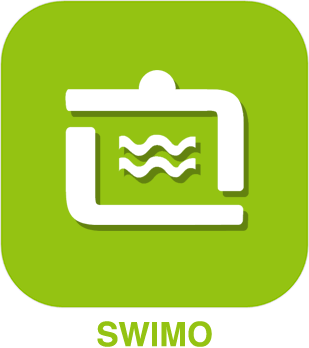
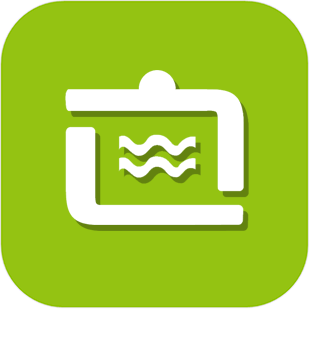
update V4

Changed region(s): [[0.3204, 0.9195, 0.699, 1.0]]

diff --git a/desktop/js/swimo.js b/desktop/js/swimo.js
@@ -57,10 +57,10 @@ function addCmdToTable(_cmd) {
   tr += '</td>';
   tr += '<td>';
   if (is_numeric(_cmd.id)) {
-    tr += '<a class="btn btn-default btn-xs cmdAction" data-action="configure"><i class="fa fa-cogs"></i></a> ';
-    tr += '<a class="btn btn-default btn-xs cmdAction" data-action="test"><i class="fa fa-rss"></i> {{Tester}}</a>';
+    tr += '<a class="btn btn-default btn-xs cmdAction" data-action="configure"><i class="fas fa-cogs"></i></a> ';
+    tr += '<a class="btn btn-default btn-xs cmdAction" data-action="test"><i class="fas fa-rss"></i> {{Tester}}</a>';
   }
-  tr += '<i class="fa fa-minus-circle pull-right cmdAction cursor" data-action="remove"></i>';
+  tr += '<i class="fas fa-minus-circle pull-right cmdAction cursor" data-action="remove"></i>';
   tr += '</td>';
   tr += '</tr>';
   $('#table_cmd tbody').append(tr);

diff --git a/desktop/php/swimo.php b/desktop/php/swimo.php
@@ -1,6 +1,6 @@
 <?php
 if (!isConnect('admin')) {
-throw new Exception('{{401 - Accès non autorisé}}');
+  throw new Exception('{{401 - Accès non autorisé}}');
 }
 $plugin = plugin::byId('swimo');
 sendVarToJS('eqType', $plugin->getId());
@@ -8,112 +8,146 @@ $eqLogics = eqLogic::byType($plugin->getId());
 ?>
 
 <div class="row row-overflow">
- <div class="col-xs-12 eqLogicThumbnailDisplay">
-<legend><i class="fas fa-cog"></i>  {{Gestion}}</legend>
-<div class="eqLogicThumbnailContainer">
-    <div class="cursor eqLogicAction logoPrimary" data-action="add">
-      <i class="fas fa-plus-circle"></i>
-      <br>
-      <span>{{Ajouter}}</span>
+  <div class="col-xs-12 eqLogicThumbnailDisplay">
+    <legend><i class="fas fa-cog"></i>  {{Gestion}}</legend>
+    <div class="eqLogicThumbnailContainer">
+      <div class="cursor eqLogicAction logoPrimary" data-action="add">
+        <i class="fas fa-plus-circle"></i>
+        <br>
+        <span>{{Ajouter}}</span>
+      </div>
+      <div class="cursor eqLogicAction logoSecondary" data-action="sync">
+        <i class="fas fa-sync"></i>
+        <br>
+        <span>{{Synchronisation}}</span>
+      </div>
+      <div class="cursor eqLogicAction logoSecondary" data-action="gotoPluginConf">
+        <i class="fas fa-wrench"></i>
+        <br>
+        <span>{{Configuration}}</span>
+      </div>
+    </div>
+    <legend><i class="fas fa-swimming-pool"></i> {{Mes swimos}}</legend>
+    <div class="input-group" style="margin:5px;">
+      <input class="form-control roundedLeft" placeholder="{{Rechercher}}" id="in_searchEqlogic"/>
+      <div class="input-group-btn">
+        <a id="bt_resetSearch" class="btn roundedRight" style="width:30px"><i class="fas fa-times"></i></a>
+      </div>
+    </div><div class="eqLogicThumbnailContainer">
+      <?php
+      foreach ($eqLogics as $eqLogic) {
+        $opacity = ($eqLogic->getIsEnable()) ? '' : 'disableCard';
+        echo '<div class="eqLogicDisplayCard cursor '.$opacity.'" data-eqLogic_id="' . $eqLogic->getId() . '">';
+        echo '<img src="' . $plugin->getPathImgIcon() . '"/>';
+        echo '<br>';
+        echo '<span class="name">' . $eqLogic->getHumanName(true, true) . '</span>';
+        echo '</div>';
+      }
+      ?>
+    </div>
   </div>
-	<div class="cursor eqLogicAction logoSecondary" data-action="sync">
-        <i class="fa fa-sync"></i>
-       <br>
-       <span>{{Synchronisation}}</span>
-   </div>
-    <div class="cursor eqLogicAction logoSecondary" data-action="gotoPluginConf">
-	      <i class="fas fa-wrench"></i>
-	    <br>
-	    <span>{{Configuration}}</span>
-	  </div>
-</div>
-<legend><i class="fas fa-table"></i> {{Mes swimos}}</legend>
-   <input class="form-control" placeholder="{{Rechercher}}" id="in_searchEqlogic" />
-<div class="eqLogicThumbnailContainer">
-  <?php
-foreach ($eqLogics as $eqLogic) {
-$opacity = ($eqLogic->getIsEnable()) ? '' : 'disableCard';
-echo '<div class="eqLogicDisplayCard cursor '.$opacity.'" data-eqLogic_id="' . $eqLogic->getId() . '">';
-echo '<img src="' . $plugin->getPathImgIcon() . '"/>';
-echo '<br>';
-echo '<span class="name">' . $eqLogic->getHumanName(true, true) . '</span>';
-echo '</div>';
-}
-?>
-</div>
-</div>
 
-<div class="col-xs-12 eqLogic" style="display: none;">
-	<div class="input-group pull-right" style="display:inline-flex">
-		<span class="input-group-btn">
-			<a class="btn btn-default btn-sm eqLogicAction roundedLeft" data-action="configure"><i class="fa fa-cogs"></i> {{Configuration avancée}}</a><a class="btn btn-default btn-sm eqLogicAction" data-action="copy"><i class="fas fa-copy"></i> {{Dupliquer}}</a><a class="btn btn-sm btn-success eqLogicAction" data-action="save"><i class="fas fa-check-circle"></i> {{Sauvegarder}}</a><a class="btn btn-danger btn-sm eqLogicAction roundedRight" data-action="remove"><i class="fas fa-minus-circle"></i> {{Supprimer}}</a>
-		</span>
-	</div>
-<ul class="nav nav-tabs" role="tablist">
-  <li role="presentation"><a href="#" class="eqLogicAction" aria-controls="home" role="tab" data-toggle="tab" data-action="returnToThumbnailDisplay"><i class="fa fa-arrow-circle-left"></i></a></li>
-  <li role="presentation" class="active"><a href="#eqlogictab" aria-controls="home" role="tab" data-toggle="tab"><i class="fa fa-tachometer"></i> {{Equipement}}</a></li>
-  <li role="presentation"><a href="#commandtab" aria-controls="profile" role="tab" data-toggle="tab"><i class="fa fa-list-alt"></i> {{Commandes}}</a></li>
-</ul>
-<div class="tab-content" style="height:calc(100% - 50px);overflow:auto;overflow-x: hidden;">
-  <div role="tabpanel" class="tab-pane active" id="eqlogictab">
-    <br/>
-  <form class="form-horizontal">
-      <fieldset>
-          <div class="form-group">
-              <label class="col-sm-3 control-label">{{Nom de l'équipement swimo}}</label>
-              <div class="col-sm-3">
-                  <input type="text" class="eqLogicAttr form-control" data-l1key="id" style="display : none;" />
-                  <input type="text" class="eqLogicAttr form-control" data-l1key="name" placeholder="{{Nom de l'équipement swimo}}"/>
-              </div>
-          </div>
-          <div class="form-group">
-              <label class="col-sm-3 control-label" >{{Objet parent}}</label>
-              <div class="col-sm-3">
-                  <select id="sel_object" class="eqLogicAttr form-control" data-l1key="object_id">
+  <div class="col-xs-12 eqLogic" style="display: none;">
+    <div class="input-group pull-right" style="display:inline-flex">
+      <span class="input-group-btn">
+        <a class="btn btn-sm btn-default eqLogicAction roundedLeft" data-action="configure"><i class="fa fa-cogs"></i><span class="hidden-xs"> {{Configuration avancée}}</span>
+        </a><a class="btn btn-sm btn-default eqLogicAction" data-action="copy"><i class="fas fa-copy"></i><span class="hidden-xs">  {{Dupliquer}}</span>
+        </a><a class="btn btn-sm btn-success eqLogicAction" data-action="save"><i class="fas fa-check-circle"></i> {{Sauvegarder}}
+        </a><a class="btn btn-sm btn-danger eqLogicAction roundedRight" data-action="remove"><i class="fas fa-minus-circle"></i> {{Supprimer}}
+        </a>
+      </span>
+    </div>
+    <ul class="nav nav-tabs" role="tablist">
+      <li role="presentation"><a href="#" class="eqLogicAction" aria-controls="home" role="tab" data-toggle="tab" data-action="returnToThumbnailDisplay"><i class="fas fa-arrow-circle-left"></i></a></li>
+      <li role="presentation" class="active"><a href="#eqlogictab" aria-controls="home" role="tab" data-toggle="tab"><i class="fas fa-tachometer"></i> {{Equipement}}</a></li>
+      <li role="presentation"><a href="#commandtab" aria-controls="profile" role="tab" data-toggle="tab"><i class="fas fa-list-alt"></i> {{Commandes}}</a></li>
+    </ul>
+    <div class="tab-content">
+      <div role="tabpanel" class="tab-pane active" id="eqlogictab">
+        <br/>
+        <div class="row">
+          <div class="col-lg-7">
+            <form class="form-horizontal">
+              <fieldset>
+                <legend><i class="fas fa-wrench"></i> {{Général}}</legend>
+                <div class="form-group">
+                  <label class="col-sm-3 control-label">{{Nom de l'équipement}}</label>
+                  <div class="col-xs-11 col-sm-7">
+                    <input type="text" class="eqLogicAttr form-control" data-l1key="id" style="display : none;"/>
+                    <input type="text" class="eqLogicAttr form-control" data-l1key="name" placeholder="{{Nom de l'équipement}}"/>
+                  </div>
+                </div>
+                <div class="form-group">
+                  <label class="col-sm-3 control-label" >{{Objet parent}}</label>
+                  <div class="col-xs-11 col-sm-7">
+                    <select id="sel_object" class="eqLogicAttr form-control" data-l1key="object_id">
                       <option value="">{{Aucun}}</option>
                       <?php
-foreach (jeeObject::all() as $object) {
-echo '<option value="' . $object->getId() . '">' . $object->getName() . '</option>';
-}
-?>
-                 </select>
-             </div>
-         </div>
-   <div class="form-group">
-              <label class="col-sm-3 control-label">{{Catégorie}}</label>
-              <div class="col-sm-9">
-               <?php
-                  foreach (jeedom::getConfiguration('eqLogic:category') as $key => $value) {
-                  echo '<label class="checkbox-inline">';
-                  echo '<input type="checkbox" class="eqLogicAttr" data-l1key="category" data-l2key="' . $key . '" />' . $value['name'];
-                  echo '</label>';
-                  }
-                ?>
-             </div>
-         </div>
-<div class="form-group">
-	<label class="col-sm-3 control-label"></label>
-	<div class="col-sm-9">
-		<label class="checkbox-inline"><input type="checkbox" class="eqLogicAttr" data-l1key="isEnable" checked/>{{Activer}}</label>
-		<label class="checkbox-inline"><input type="checkbox" class="eqLogicAttr" data-l1key="isVisible" checked/>{{Visible}}</label>
-	</div>
-</div>
-</fieldset>
-</form>
-</div>
-    <div role="tabpanel" class="tab-pane" id="commandtab">
-<a class="btn btn-success btn-sm cmdAction pull-right" data-action="add" style="margin-top:5px;"><i class="fa fa-plus-circle"></i> {{Commandes}}</a><br/><br/>
-<table id="table_cmd" class="table table-bordered table-condensed">
-  <thead>
-      <tr>
-          <th>{{Nom}}</th><th>{{Type}}</th><th>{{Action}}</th>
-      </tr>
-  </thead>
-  <tbody>
-  </tbody>
-</table>
-</div>
-</div>
+                      $options = '';
+                      foreach ((jeeObject::buildTree(null, false)) as $object) {
+                        $options .= '<option value="' . $object->getId() . '">' . str_repeat('&nbsp;&nbsp;', $object->getConfiguration('parentNumber')) . $object->getName() . '</option>';
+                      }
+                      echo $options;
+                      ?>
+                    </select>
+                  </div>
+                </div>
+                <div class="form-group">
+                  <label class="col-sm-3 control-label">{{Catégorie}}</label>
+                  <div class="col-sm-9">
+                    <?php
+                    foreach (jeedom::getConfiguration('eqLogic:category') as $key => $value) {
+                      echo '<label class="checkbox-inline">';
+                      echo '<input type="checkbox" class="eqLogicAttr" data-l1key="category" data-l2key="' . $key . '" />' . $value['name'];
+                      echo '</label>';
+                    }
+                    ?>
+                  </div>
+                </div>
+                <div class="form-group">
+                  <label class="col-sm-3 control-label">{{Options}}</label>
+                  <div class="col-xs-11 col-sm-7">
+                    <label class="checkbox-inline"><input type="checkbox" class="eqLogicAttr" data-l1key="isEnable" checked/>{{Activer}}</label>
+                    <label class="checkbox-inline"><input type="checkbox" class="eqLogicAttr" data-l1key="isVisible" checked/>{{Visible}}</label>
+                  </div>
+                </div>
+                <br/>
+              </fieldset>
+            </form>
+          </div>
+          <!-- Partie droite de l'onglet "Equipement" -->
+          <!-- Affiche l'icône du plugin par défaut mais vous pouvez y afficher les informations de votre choix -->
+          <div class="col-lg-5">
+            <form class="form-horizontal">
+              <fieldset>
+                <legend><i class="fas fa-info"></i> {{Informations}}</legend>
+                <div class="form-group">
+                  <label class="col-sm-3"></label>
+                  <div class="col-sm-7 text-center">
+                    <img name="icon_visu" src="<?= $plugin->getPathImgIcon(); ?>" style="max-width:160px;"/>
+                  </div>
+                </div>
+              </fieldset>
+            </form>
+          </div>
+        </div><!-- /.row-->
+      </div><!-- /.tabpanel #eqlogictab-->
+
+      <div role="tabpanel" class="tab-pane" id="commandtab">
+        <a class="btn btn-default btn-sm pull-right cmdAction" data-action="add" style="margin-top:5px;"><i class="fas fa-plus-circle"></i> {{Ajouter une commande}}</a>
+        <br/><br/>
+        <div class="table-responsive"><table id="table_cmd" class="table table-bordered table-condensed">
+          <thead>
+            <tr>
+              <th>{{Nom}}</th><th>{{Type}}</th><th>{{Action}}</th>
+            </tr>
+          </thead>
+          <tbody>
+          </tbody>
+        </table>
+      </div>
+    </div>
+  </div>
 
 </div>
 </div>

diff --git a/plugin_info/configuration.php b/plugin_info/configuration.php
@@ -25,8 +25,8 @@ if (!isConnect()) {
 <form class="form-horizontal">
     <fieldset>
 	<div class="form-group">
-		<label class="col-lg-3 control-label">{{Type de connexion}}</label>
-		<div class="col-lg-4">
+		<label class="col-sm-3 control-label">{{Type de connexion}}</label>
+		<div class="col-xs-11 col-sm-7">
 			<select id="connectType" class="configKey form-control" data-l1key="connectType" >
 				<option value="local">Local</option>
 				<option value="cloud">Cloud</option>
@@ -34,20 +34,20 @@ if (!isConnect()) {
 		</div>
 	</div>
         <div id="ipaddress" class="form-group">
-            <label class="col-lg-4 control-label">{{Adresse IP}}</label>
-            <div class="col-lg-2">
+            <label class="col-sm-3 control-label">{{Adresse IP}}</label>
+            <div class="col-xs-11 col-sm-7">
                 <input  class="configKey form-control" data-l1key="ipaddress" />
             </div>
         </div>
         <div class="form-group">
-            <label class="col-lg-4 control-label">{{Serial}}</label>
-            <div class="col-lg-2">
+            <label class="col-sm-3 control-label">{{Serial}}</label>
+            <div class="col-xs-11 col-sm-7">
                 <input class="configKey form-control" data-l1key="serial" />
             </div>
         </div>
         <div class="form-group">
-            <label class="col-lg-4 control-label">{{Apikey}}</label>
-            <div class="col-lg-2">
+            <label class="col-sm-3 control-label">{{Apikey}}</label>
+            <div class="col-xs-11 col-sm-7">
                 <input class="configKey form-control" data-l1key="apikey" />
             </div>
         </div>

diff --git a/docs/fr_FR/index.md b/docs/fr_FR/index.md
@@ -1,15 +1,18 @@
 # Plugin Swimo
 
-Ce plugin permet de connecter les controleurs de piscine Swimo avec Jeedom.
-Le plugin permet de récupérer les valeurs des différents capteurs ainsi que contrôler les actionneurs. (changement de modes, On/Off, changement des consignes)
+# Description
+
+Ce plugin permet de connecter les contrôleurs de piscine Swimo avec Jeedom.
+Le plugin permet de récupérer les valeurs des différents capteurs ainsi que contrôler les actionneurs (changement de modes, On/Off, changement des consignes).
 
 # Configuration du plugin
 
-Après téléchargement du plugin, il vous suffit juste d’activer celui-ci, puis de configurer quelques éléments :
+Après téléchargement du plugin, il suffit juste d’activer celui-ci, puis de configurer quelques éléments :
 
-- l'adresse IP du swimo
-- le serial du swimo
-- L'apikey du swimo
+- le type de connexion *(local ou cloud)*.
+- l'adresse IP du swimo.
+- le serial du swimo.
+- L'apikey du swimo.
 
 ![swimo](../images/swimo1.png)
 
@@ -23,7 +26,7 @@ Une fois configuré dans un objet, vous obtiendrez vos éléments dans le dashbo
 
 ![swimo3](../images/swimo3.png)
 
-> **Note**
+> **NOTE**
 >
 > - Les données sont actualisées toutes les 5 minutes ou lors d'une action.
 > - Les valeurs de consigne ne sont pas affichées par défaut.

diff --git a/docs/fr_FR/changelog.md b/docs/fr_FR/changelog.md
@@ -4,6 +4,12 @@
 >
 >Pour rappel s'il n'y a pas d'information sur la mise à jour, c'est que celle-ci concerne uniquement de la mise à jour de documentation, de traduction ou de texte
 
+# 24/11/2020
+
+- Mise à jour de l'icône V4
+- Nouvelle présentation de la liste des objets
+- Ajout du tag "Compatibilité V4"
+
 # V2
 
 - Ajout de la gestion Cloud
